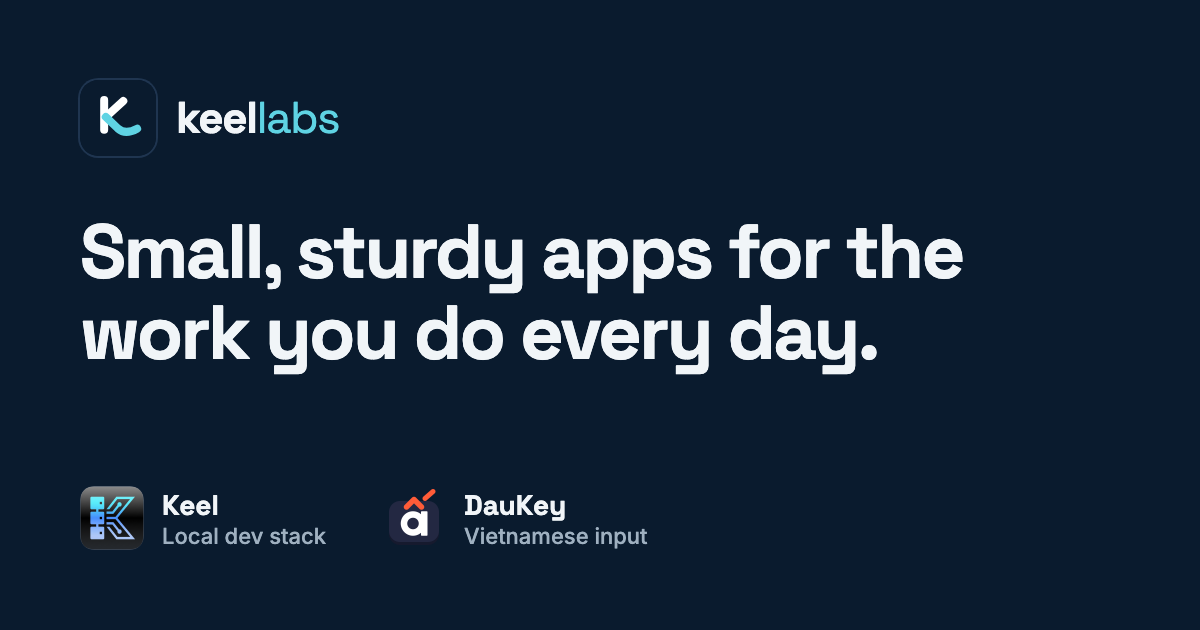
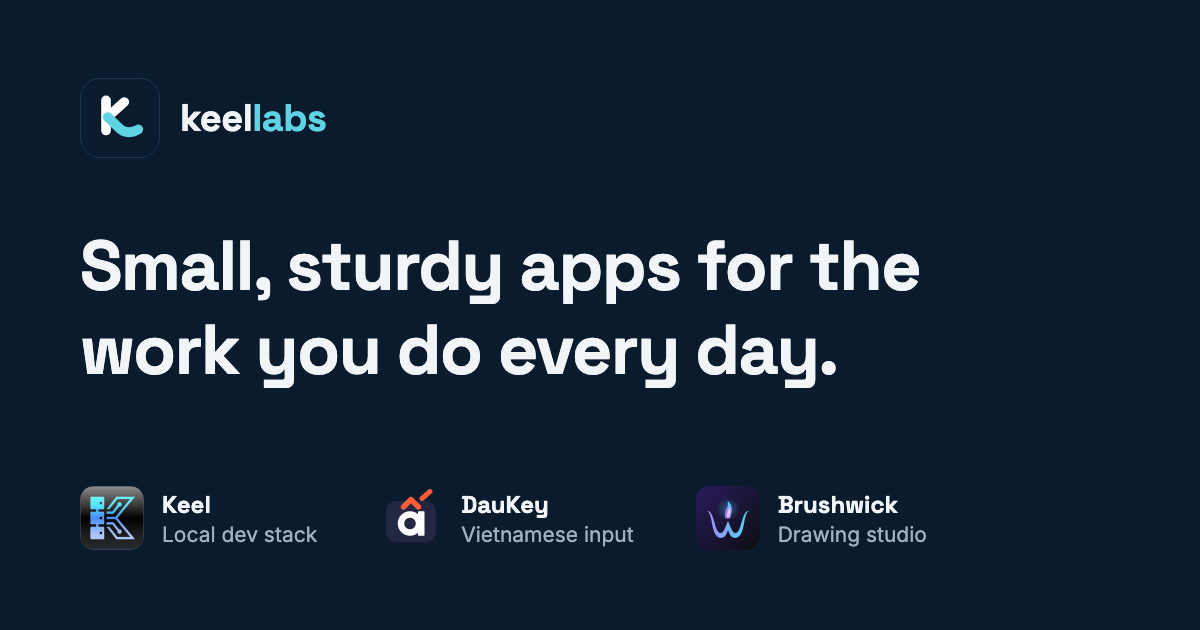
Copy covers desktop and mobile now that Brushwick is here; preview image lists all three apps

diff --git a/docs/index.html b/docs/index.html
@@ -3,15 +3,15 @@
 <head>
 <meta charset="utf-8">
 <meta name="viewport" content="width=device-width, initial-scale=1">
-<title>Keel Labs – Small, sturdy desktop apps for macOS, Windows and Linux</title>
-<meta name="description" content="Keel Labs makes native desktop apps for macOS, Windows and Linux: Keel, a local dev stack without Docker, and DauKey, a Vietnamese input method. Plus Brushwick, a drawing app for iPad, iPhone and Android.">
+<title>Keel Labs – Small, sturdy apps for desktop, phone and tablet</title>
+<meta name="description" content="Keel Labs makes small, sturdy apps: Keel, a local dev stack without Docker, and DauKey, a Vietnamese input method, for macOS, Windows and Linux; and Brushwick, a drawing studio for iPad, iPhone and Android.">
 <link rel="canonical" href="https://keellabs.dev/">
 <meta property="og:type" content="website">
 <meta property="og:site_name" content="Keel Labs">
 <meta property="og:locale" content="en_US">
 <meta property="og:url" content="https://keellabs.dev/">
-<meta property="og:title" content="Keel Labs – Small, sturdy desktop apps">
-<meta property="og:description" content="Keel, a local dev stack without Docker, and DauKey, a Vietnamese input method. Native apps for macOS, Windows and Linux. Plus Brushwick, a drawing app for iPad, iPhone and Android.">
+<meta property="og:title" content="Keel Labs – Small, sturdy apps">
+<meta property="og:description" content="Keel, a local dev stack without Docker, and DauKey, a Vietnamese input method, for macOS, Windows and Linux. Brushwick, a drawing studio for iPad, iPhone and Android.">
 <meta property="og:image" content="https://keellabs.dev/img/og.png">
 <meta property="og:image:width" content="1200">
 <meta property="og:image:height" content="630">
@@ -44,7 +44,7 @@
       <p class="eyebrow">Keel Labs</p>
       <h1>Small, sturdy apps for the work you do every day.</h1>
       <p class="lead">A keel keeps a boat steady and on course. That is the job of our apps too:
-        native desktop tools for macOS, Windows and Linux that do one thing well and stay out of your way.</p>
+        focused tools for your computer, phone and tablet that do one thing well and stay out of your way.</p>
     </div>
   </section>
 
@@ -111,19 +111,19 @@
       <div class="principles">
         <div>
           <h3>Native first</h3>
-          <p>Rust, C++ and Swift underneath, and no bundled browser engine. Our apps start fast and stay light on memory and battery.</p>
+          <p>Rust, C++ and Swift underneath our desktop tools, and no bundled browser engine anywhere. Brushwick paints straight on the GPU. Our apps start fast and stay light on memory and battery.</p>
         </div>
         <div>
           <h3>Every platform, for real</h3>
-          <p>macOS, Windows and Linux get the same features and the same care, not a port that lags behind.</p>
+          <p>On the desktop, macOS, Windows and Linux get the same features and the same care. Brushwick is made for iPad, iPhone and Android alike, not a port that lags behind.</p>
         </div>
         <div>
           <h3>Your machine stays yours</h3>
-          <p>Free to download, no accounts, no ads. Apps keep to their own folders and clean up after themselves.</p>
+          <p>No accounts, no ads, no tracking. Your files stay on your device, and our apps keep to their own folders and clean up after themselves.</p>
         </div>
         <div>
-          <h3>Built and tested on all three</h3>
-          <p>Every release is built and checked by automated pipelines on macOS, Windows and Linux before it reaches you.</p>
+          <h3>Tested where it runs</h3>
+          <p>Desktop releases are built and checked by automated pipelines on macOS, Windows and Linux. Brushwick is tested on iPad, iPhone and Android before it reaches you.</p>
         </div>
       </div>
     </div>
